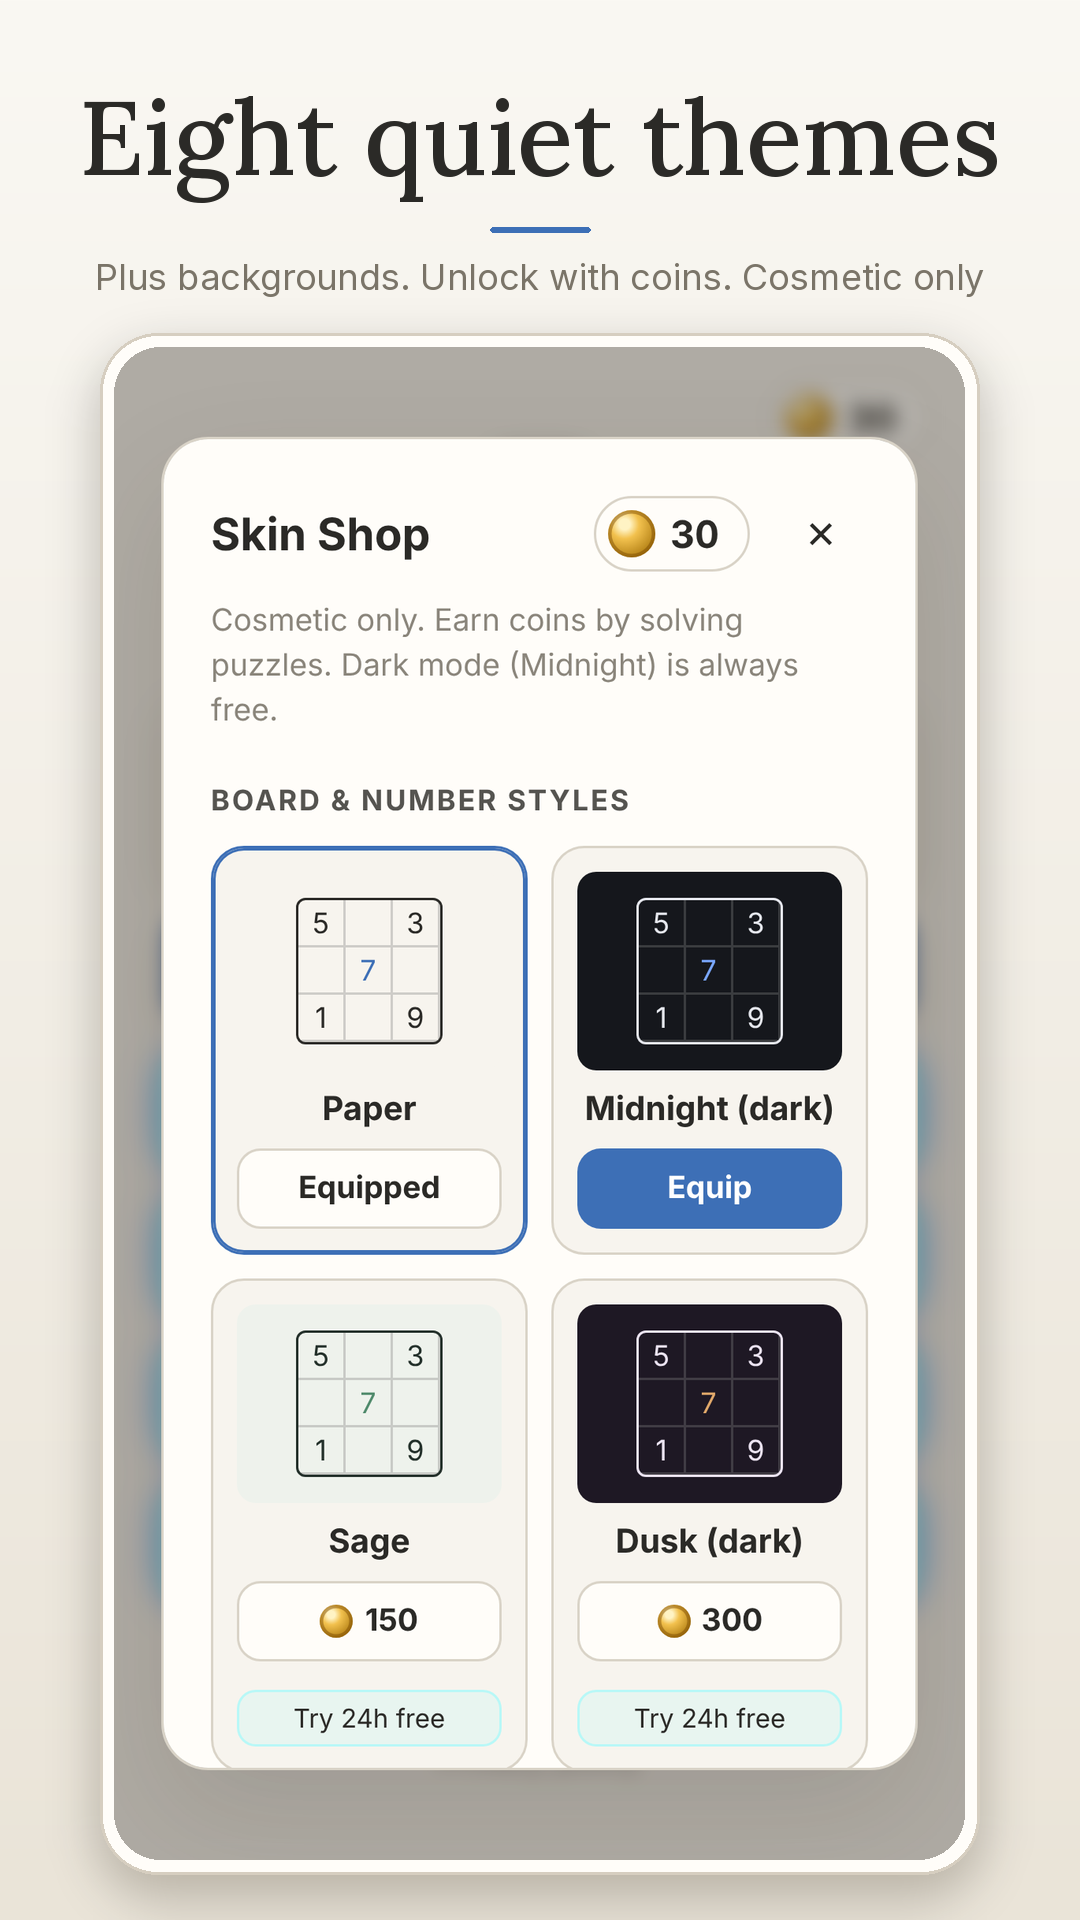
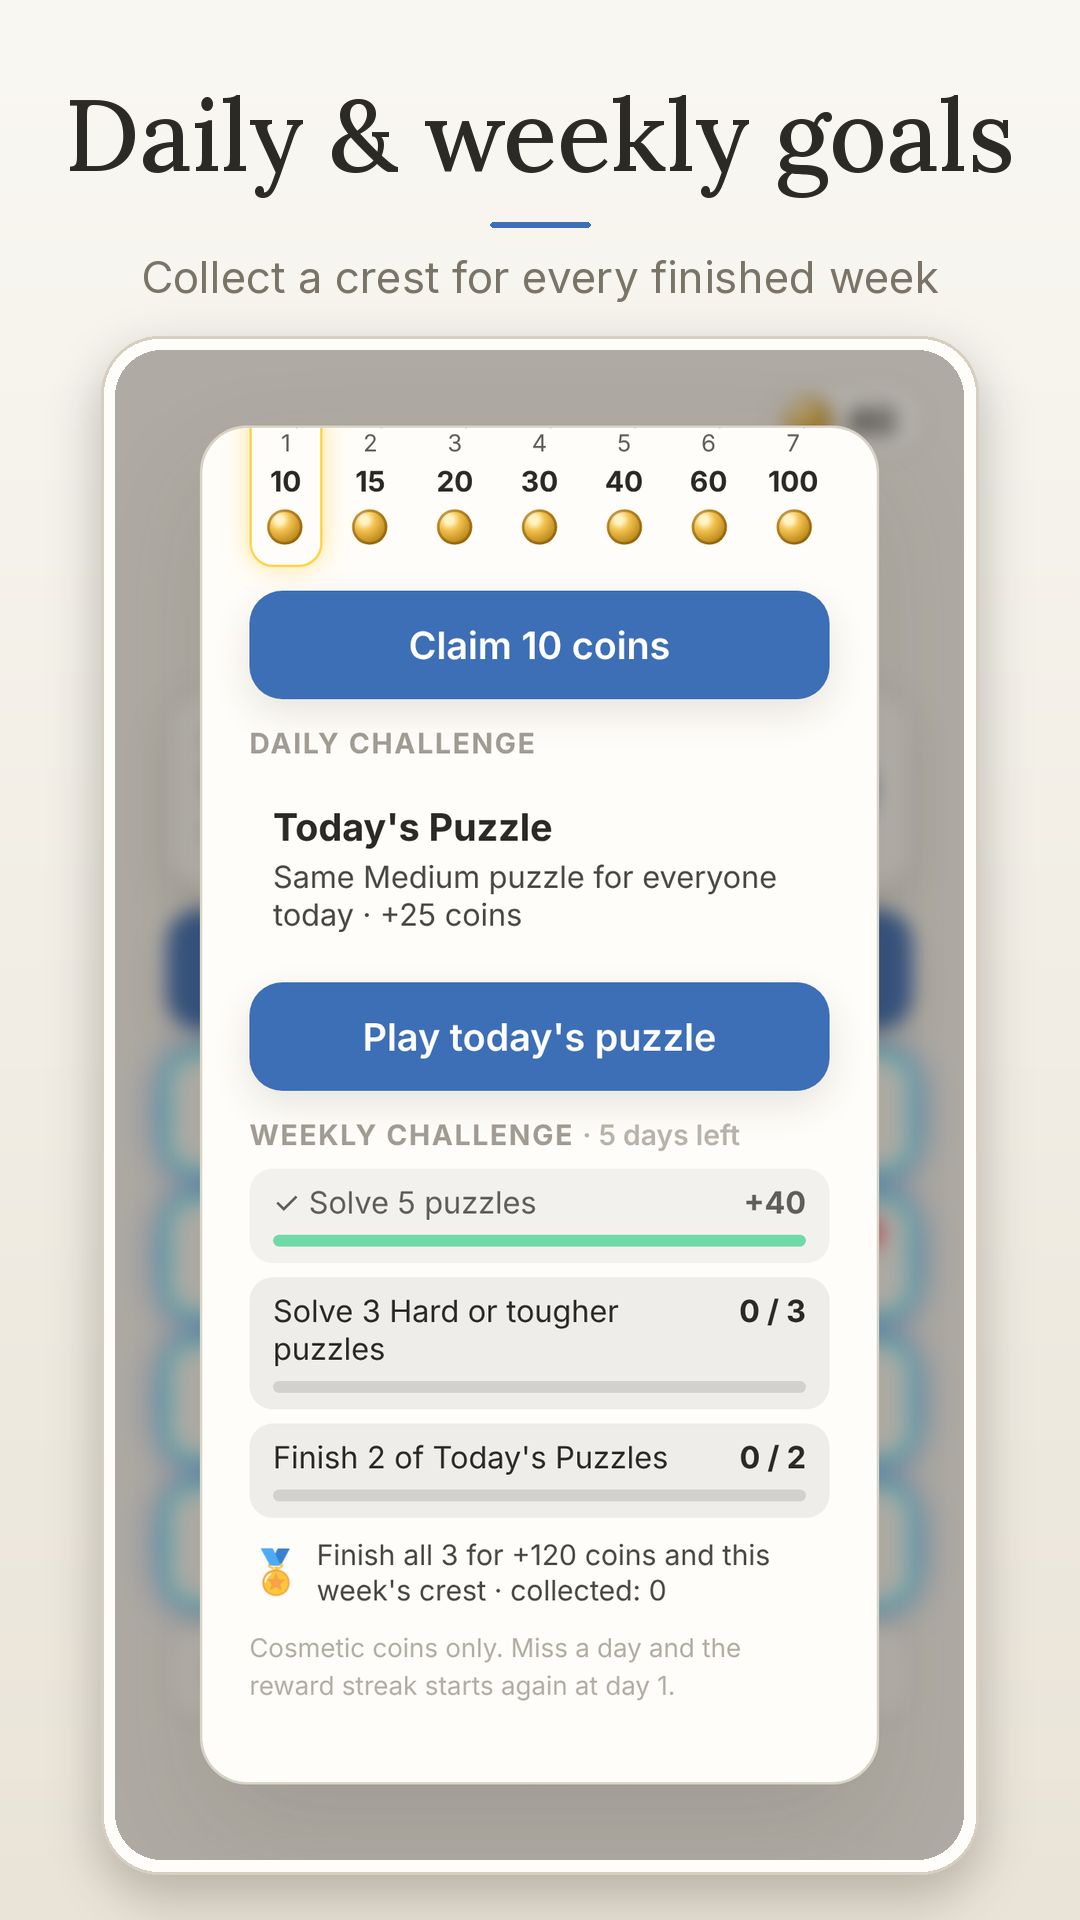
v1.9.0: screen-reader labels + non-drag placement, accessible theme preview, sudoku top bar fix, refreshed store kit

diff --git a/www/js/a11y.js b/www/js/a11y.js
@@ -40,6 +40,38 @@
     });
   };
   A.sync = function (settings, ids) { A.apply(settings); Object.keys(ids).forEach(function (k) { var el = document.getElementById(ids[k]); if (el) el.checked = k === 'reduceMotion' ? A.reduced() : !!settings[k]; }); };
+
+  /**
+   * v1.9 shop preview: "Preview with" chips (High contrast / Larger text / Symbols) in the shop panel.
+   * Temporary only: nothing is saved, and the real settings are restored when the shop closes.
+   */
+  A.preview = { contrast: null, largeText: null, marks: null };
+  A.marksOn = function (settings) { return A.preview.marks != null ? A.preview.marks : !!(settings && settings.marks); };
+  A.previewBar = function (o) {
+    var ov = document.getElementById(o.overlay || 'shop'); if (!ov) return null;
+    var panel = ov.querySelector('.panel'), anchor = panel.querySelector('.note');
+    var bar = document.createElement('div'); bar.className = 'a11y-preview'; bar.setAttribute('role', 'group'); bar.setAttribute('aria-label', 'Preview themes with accessibility options');
+    bar.innerHTML = '<span class="a11y-preview-l">Preview with:</span>';
+    var chips = [['contrast', 'High contrast'], ['largeText', 'Larger text']].concat(o.marks ? [['marks', 'Symbols']] : []);
+    function cur(k) { return A.preview[k] != null ? A.preview[k] : !!o.settings[k]; }
+    function paint() {
+      var cl = document.documentElement.classList;
+      cl.toggle('a11y-contrast', cur('contrast')); cl.toggle('a11y-large', cur('largeText'));
+      if (o.marks) document.body.classList.toggle('marks', cur('marks'));
+      Array.prototype.forEach.call(bar.querySelectorAll('button'), function (b) { var on = cur(b.dataset.k); b.classList.toggle('on', on); b.setAttribute('aria-pressed', on ? 'true' : 'false'); });
+    }
+    chips.forEach(function (c) {
+      var b = document.createElement('button'); b.type = 'button'; b.className = 'chip'; b.dataset.k = c[0]; b.textContent = c[1];
+      b.addEventListener('click', function () { A.preview[c[0]] = !cur(c[0]); paint(); if (o.rerender) o.rerender(); if (o.sfx) o.sfx(); });
+      bar.appendChild(b);
+    });
+    if (anchor && anchor.nextSibling) panel.insertBefore(bar, anchor.nextSibling); else panel.appendChild(bar);
+    function reset() { A.preview = { contrast: null, largeText: null, marks: null }; A.apply(o.settings); if (o.marks) document.body.classList.toggle('marks', !!o.settings.marks); if (o.rerender) o.rerender(); paint(); }
+    new MutationObserver(function () { if (ov.classList.contains('hidden')) { if (A.preview.contrast != null || A.preview.largeText != null || A.preview.marks != null) reset(); } else paint(); })
+      .observe(ov, { attributes: true, attributeFilter: ['class'] });
+    paint();
+    return { reset: reset, paint: paint };
+  };
   if (typeof Element !== 'undefined' && Element.prototype.animate && !Element.prototype.animate.__a11y) {
     var orig = Element.prototype.animate;
     var wrapped = function (frames, opts) {

diff --git a/www/js/game.js b/www/js/game.js
@@ -100,6 +100,8 @@
       c.dataset.i = i;
       c.innerHTML = '<span class="v"></span><div class="notes"></div>';
       c.addEventListener('pointerdown', onCellDown);
+      c.setAttribute('role', 'button'); c.tabIndex = -1;
+      c.addEventListener('click', function (e) { if (window.SR && window.SR.assistive(e)) onCellDown(e); });
       b.appendChild(c); cells.push(c);
     }
     var pad = $('pad'); pad.innerHTML = '';
@@ -117,6 +119,7 @@
     var bs = Math.floor(Math.max(220, Math.min(w, h)) / 9) * 9;
     document.documentElement.style.setProperty('--bs', bs + 'px');
   }
+  function noteText(nm) { var a = []; for (var d = 1; d <= 9; d++) if (nm & L.bit(d)) a.push(d); return a.length ? 'notes ' + a.join(' ') : 'empty'; }
   function wrongAt(i) { return G.grid[i] && !G.puzzle[i] && G.grid[i] !== G.solution[i]; }
   function render() {
     if (!G) return;
@@ -139,6 +142,8 @@
       if (c.className.indexOf(' pop') >= 0) cls += ' pop';
       c.className = cls;
       c.firstChild.textContent = v || '';
+      var lab = 'Row ' + (L.ROW[i] + 1) + ', column ' + (L.COL[i] + 1) + ', ' + (G.puzzle[i] ? 'given ' + v : v ? v + (cls.indexOf(' wrong') >= 0 ? ', wrong' : '') : noteText(G.notes[i])) + (i === sel ? ', selected' : '');
+      if (c.getAttribute('aria-label') !== lab) c.setAttribute('aria-label', lab);
       var nd = c.lastChild, nm = v ? 0 : G.notes[i];
       if (nd.dataset.m !== String(nm) + '|' + (save.settings.same ? sv : 0)) {
         var html = '';
@@ -150,9 +155,11 @@
       var d = +b.dataset.d, left = 9 - counts[d];
       b.classList.toggle('done', left <= 0);
       b.lastChild.textContent = left > 0 ? left : '';
+      b.setAttribute('aria-label', 'Number ' + d + (left > 0 ? ', ' + left + ' left' : ', all placed'));
     });
     $('g-diff').textContent = diffName(G.difficulty);
     $('g-diff').classList.toggle('daily', !!G.daily);
+    var lbl = $('g-diff').parentNode.querySelector('.lbl'); if (lbl) lbl.textContent = G.daily ? 'Daily' : 'Level';
     $('g-mist').textContent = limitOn() ? G.mistakes + '/' + MAX_MISTAKES : String(G.mistakes);
     $('g-time').textContent = L.formatTime(G.elapsed);
     $('t-notes').classList.toggle('on', notesMode);
@@ -669,6 +676,7 @@
   window.__weekly = weekly;
 
   // ---------------- boot ----------------
+  if (window.A11y && window.A11y.previewBar) window.A11y.previewBar({ settings: save.settings, marks: false, rerender: null, sfx: function () { SFX.click(); } });
   if (window.A11y) window.A11y.apply(save.settings);
   SFX.setEnabled(save.settings.sound);
   if (validGame(save.game)) G = save.game; else { G = null; save.game = null; }

diff --git a/www/css/style.css b/www/css/style.css
@@ -105,7 +105,7 @@ body.has-banner #game { padding-bottom: calc(var(--sab) + max(var(--banner-h), 5
 .gstat { flex: 1; display: flex; flex-direction: column; align-items: center; min-width: 0; }
 .gstat .lbl { font-size: 11px; color: var(--muted); letter-spacing: .08em; text-transform: uppercase; }
 .gstat b { font-size: 15px; font-weight: 700; font-variant-numeric: tabular-nums; white-space: nowrap; }
-.gstat b.daily::before { content: "Daily · "; color: var(--accent); }
+.gstat b.daily { color: var(--accent); }
 body.no-timer .gstat.timer b { visibility: hidden; }
 
 /* stage */
@@ -402,3 +402,13 @@ html.a11y-contrast :focus-visible { outline: 3px solid #ffd400 !important; outli
 html.a11y-contrast .overlay { background: rgba(0,0,0,.78); }
 html.a11y-contrast body { --muted: var(--ink); --line: var(--line-strong); --note: var(--ink); }
 html.a11y-large .board .note, html.a11y-large .board .notes span { font-weight: 700; }
+/* Screen-reader helpers (v1.9) */
+.sr-only { position: absolute !important; width: 1px; height: 1px; padding: 0; margin: -1px; overflow: hidden; clip: rect(0 0 0 0); white-space: nowrap; border: 0; }
+.sr-grid { position: absolute; inset: 0; pointer-events: none; z-index: 2; }
+.sr-grid button { position: absolute; width: 44px; height: 44px; transform: translate(-50%, -50%); background: transparent; border: 0; padding: 0; color: transparent; font-size: 1px; }
+.sr-grid button:focus-visible, .slot:focus-visible, #board .cell:focus-visible { outline: 3px solid #ffd400; outline-offset: 2px; border-radius: 8px; }
+.slot.sr-sel { outline: 3px dashed #ffd400; outline-offset: -3px; border-radius: 12px; }
+.a11y-preview { display: flex; flex-wrap: wrap; align-items: center; gap: 6px; margin: 2px 0 8px; font-size: 12px; }
+.a11y-preview-l { opacity: .75; font-weight: 700; }
+.a11y-preview .chip { padding: 5px 10px; border-radius: 999px; border: 1px solid rgba(127,127,127,.45); background: rgba(127,127,127,.12); font-size: 12px; font-weight: 700; color: inherit; }
+.a11y-preview .chip.on { background: #ffd400; color: #1a1400; border-color: #ffd400; }

diff --git a/test/v19.test.js b/test/v19.test.js
@@ -1,0 +1,16 @@
+const assert = require('assert'), fs = require('fs'), dir = __dirname + '/../www/';
+const SR = require('../www/js/sr.js');
+assert.strictEqual(SR.assistive({ type: 'click', detail: 0 }), true, 'keyboard/TalkBack click');
+assert.strictEqual(SR.assistive({ type: 'click', detail: 1 }), false, 'real tap is not assistive');
+assert.strictEqual(SR.assistive({ type: 'pointerdown', detail: 0 }), false);
+const A = require('../www/js/a11y.js');
+assert.strictEqual(typeof A.previewBar, 'function');
+assert.strictEqual(A.marksOn({ marks: true }), true); A.preview.marks = false; assert.strictEqual(A.marksOn({ marks: true }), false, 'preview overrides'); A.preview.marks = null;
+const html = fs.readFileSync(dir + 'index.html', 'utf8'), game = fs.readFileSync(dir + 'js/game.js', 'utf8'), css = fs.readFileSync(dir + 'css/style.css', 'utf8');
+assert(html.indexOf('js/sr.js') > 0 && html.indexOf('js/sr.js') < html.indexOf('js/game.js'));
+assert(/previewBar\(/.test(game) && css.includes('.sr-only') && css.includes('.a11y-preview'));
+const name = fs.realpathSync(__dirname);
+if (/hexa-sort/.test(name)) assert(/function srSync/.test(game) && /cv\.setAttribute\('aria-hidden'/.test(game), 'hexa canvas has an accessible overlay');
+if (/block-puzzle/.test(name)) assert(/srSlotActivate/.test(game) && /'Piece ' \+ \(i \+ 1\)/.test(game), 'block tray pieces are labelled + activatable');
+if (/sudoku/.test(name)) { assert(/'Row ' \+ \(L\.ROW\[i\] \+ 1\)/.test(game), 'sudoku cells labelled'); assert(!/b\.daily::before/.test(css), 'top bar no longer prefixes Daily'); }
+console.log('v1.9 tests ok');

diff --git a/www/js/sr.js b/www/js/sr.js
@@ -1,0 +1,22 @@
+/* Screen-reader helpers (v1.9): polite live region + "is this an assistive/keyboard activation?" */
+(function (root) {
+  'use strict';
+  var live = null, t = null;
+  var SR = {
+    say: function (msg) {
+      if (typeof document === 'undefined' || !msg) return;
+      if (!live) {
+        live = document.getElementById('sr-live');
+        if (!live) { live = document.createElement('div'); live.id = 'sr-live'; live.className = 'sr-only'; live.setAttribute('aria-live', 'polite'); live.setAttribute('role', 'status'); document.body.appendChild(live); }
+      }
+      clearTimeout(t); live.textContent = '';
+      t = setTimeout(function () { live.textContent = msg; }, 60);
+    },
+    /** TalkBack double-tap and keyboard Enter/Space produce clicks with detail 0 (no real pointer) */
+    assistive: function (e) { return !!e && e.type === 'click' && !e.detail; },
+    COLORS: ['red', 'orange', 'yellow', 'green', 'teal', 'blue', 'purple', 'pink', 'cyan', 'lime'],
+    last: function () { return live ? live.textContent : ''; }
+  };
+  root.SR = SR;
+  if (typeof module !== 'undefined' && module.exports) module.exports = SR;
+})(typeof window !== 'undefined' ? window : globalThis);

diff --git a/www/index.html b/www/index.html
@@ -180,7 +180,7 @@
           <button id="btn-replay-tutorial" class="btn plate" type="button">Replay tutorial</button>
           <button id="btn-reset" class="btn plate danger">Reset statistics &amp; progress</button>
         </div>
-        <p class="ver">Quillnine v1.8.0 · © OfferPk</p>
+        <p class="ver">Quillnine v1.9.0 · © OfferPk</p>
       </div>
     </div>
 
@@ -211,6 +211,7 @@
   <script src="js/sound.js"></script>
   <script src="js/themes.js"></script>
   <script src="js/a11y.js"></script>
+  <script src="js/sr.js"></script>
   <script src="js/daily.js"></script>
   <script src="js/weekly.js"></script>
   <script src="js/weekly-goals.js"></script>

diff --git a/store/make_store_art.py b/store/make_store_art.py
@@ -34,8 +34,8 @@ CAPTIONS = [
     ('04', '7-home', 'A new puzzle every day', 'Daily puzzle and streaks, fully offline'),
     ('05', '5-stats', 'See yourself improve', 'Best times and streaks for every difficulty'),
     ('06', '4-solved', 'Always one solution', 'Every puzzle is checked before you see it'),
-    ('07', 'v15-shop', 'Eight quiet themes', 'Plus backgrounds. Unlock with coins. Cosmetic only'),
-    ('08', 'v15-ach', 'Achievements & stats', '17 goals, best times and streaks'),
+    ('07', 'v19-weekly', 'Daily & weekly goals', 'Collect a crest for every finished week'),
+    ('08', 'v19-a11y', 'Comfortable for everyone', 'Larger text, high contrast, screen reader labels'),
 ]
 
 

diff --git a/store/LISTING-v1.9.md b/store/LISTING-v1.9.md
@@ -1,0 +1,76 @@
+# Store listing v1.9.0: Quillnine: Calm Sudoku (English, en-US)
+
+Package: `com.offerpk.sudoku` · Version 1.9.0 (versionCode 12). Supersedes `LISTING-v1.5.md` (app name unchanged).
+
+## Short description (limit 80)
+
+**77 / 80 characters**
+
+```
+Calm, offline Sudoku: 5 graded levels, daily puzzle, notes, hints, dark mode.
+```
+
+## Full description (limit 4000)
+
+**1951 / 4000 characters** (Python `len()`; bullets count as 1)
+
+```
+Quillnine is a quiet, elegant Sudoku. Every puzzle has exactly one solution and is graded by the techniques it needs, from Easy to Master.
+
+HOW TO PLAY
+• Tap a cell and choose a number
+• Each row, column and 3x3 box holds 1 to 9 exactly once
+• Pencil in candidates with Notes; they tidy themselves as you solve
+• Optional mistake limit, timer and highlighting
+
+COME BACK EVERY DAY
+• Today's Puzzle, the same for everyone, plus a 7-day reward calendar
+• Rising coin rewards for a 7-day streak (miss a day and it restarts)
+• Daily challenge streaks
+
+WEEKLY CHALLENGE
+• Three new goals every week, the same for every player
+• Earn coins and collect a crest badge for each completed week, shown in your Achievements
+• A gentle mid-week reminder on the Daily card (never a notification)
+
+ACHIEVEMENTS & STATS
+• 17 achievements for progress, skill, streaks, daily challenges and collecting
+• Stats: games played, best results, coins earned and your longest play streak
+
+SKIN SHOP
+• 12 board and number styles (Paper, Midnight, Sage, Dusk, Blossom, Harbor Night, Old Manuscript, Chalkboard, Lavender Field, Night Forest, Terracotta, Ink & Gold) and backgrounds
+• Preview before you buy. Everything is cosmetic and bought with coins you earn in the game
+• No real-money purchases, no loot boxes, no cash-out
+
+MADE FOR RELAXING
+• Plays fully offline
+• Friendly first-level tutorial (replay it any time from Settings)
+• Sound and haptics toggles, see Accessibility below
+
+ACCESSIBILITY
+• Reduce motion (follows your phone setting, or choose yourself)
+• Larger text and a high-contrast mode
+• Screen-reader labels for every cell (row, column, value or notes) and the number pad
+• Preview shop themes with these options turned on before you buy
+
+ADS
+The game is free and shows ads. Optional rewarded ads play only when you tap a button (for example a hint or a free 24-hour skin try). Full-screen ads only appear between finished games or levels, never at launch.
+```
+
+## What's new (release notes, limit 500)
+
+```
+New: weekly challenge with collectible crests, a crest showcase in Achievements, and accessibility options (reduce motion, larger text, high contrast). Better screen-reader support and new shop themes. Preview themes with accessibility options on.
+```
+
+## Graphics in this folder
+
+| Asset | File | Size |
+|---|---|---|
+| Phone screenshots (8) | `store/screenshots/01.png` … `08.png` | 1080×1920 each |
+| Feature graphic | `store/feature-graphic-1024x500.png` | 1024×500 |
+| App icon | `store/icon-512.png` | 512×512 (see `ICON-CHECK.md`) |
+
+Screenshots 07 (daily + weekly goals) and 08 (accessibility options on) are new in v1.9.0; 01–06 are unchanged.
+
+Data safety: no change from `DATA-SAFETY-v1.5.md` (weekly goals, crests and accessibility settings are stored on the device only).
